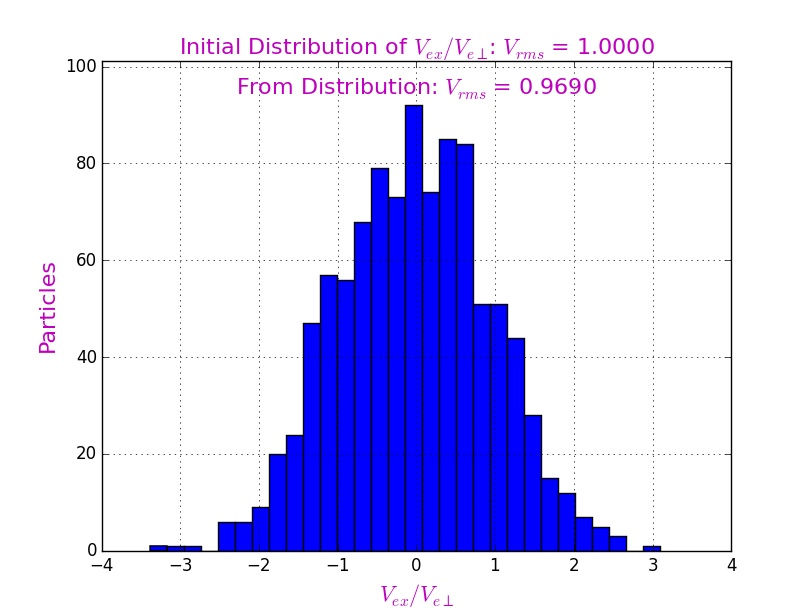
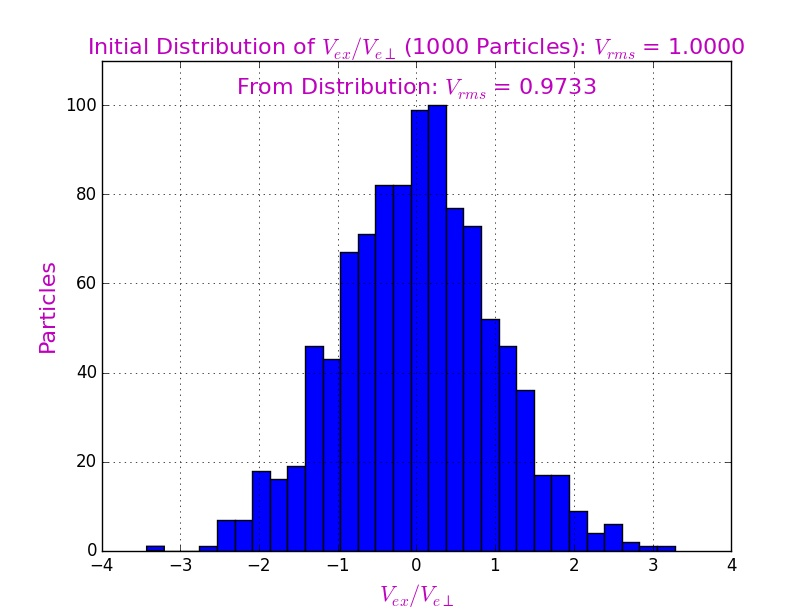
Update files at 07/27/2017

diff --git a/rsfriction/fricrionForce_YuE/scripts/frictionForce_LieOperatorsApproach.py b/rsfriction/fricrionForce_YuE/scripts/frictionForce_LieOperatorsApproach.py
@@ -58,14 +58,14 @@ Z_ion = qe*2.997e+9              # charge of ion (proton), CGSE units of the cha
 M_ion = mp*1.e+3                 # mass of ion (proton), g
 q_elec = qe*2.997e+9             # charge of electron, CGSE units of the charge
 m_elec = me*1.e+3                # mass of electron, g
-L_intrxn = 50.e-4                # length interaraction, cm 
-B_mag = 1000.                    # magnetic field, Gs
+tangAlpha=1.                     # to calculate length of interaraction
+B_mag = 2000.                    # magnetic field, Gs
 Temp_eTran = 0.5                 # transversal temperature of electrons, eV
 Temp_eLong = 2.e-4               # longitudinal temperature of electrons, eV
 numb_e = 1000                    # number of electrons
 numb_p = 50                      # number of protons
 
-a_eBeam = 0.5                    # cm
+a_eBeam = 0.1                    # cm
 n_eBeam = 1.e+9                  # cm^-3
 kinEnergy_eBeam=470.*eVtoErg     # erg
 
@@ -82,7 +82,7 @@ def omega_Larmor(mass,B_mag):
 #
 shiftV_e=np.sqrt(2.*kinEnergy_eBeam/m_elec)               # cm/sec
 #
-# The longitudinal average velocities of the electrons and ions are the same:
+# The longitudinal shift velocities of the electrons and ions are the same:
 # 
 kinEnergy_pBeam=kinEnergy_eBeam/m_elec*M_ion              # erg
 shiftV_p=np.sqrt(2.*kinEnergy_pBeam/M_ion)                # cm/sec
@@ -103,25 +103,28 @@ rmsV_eLong = np.sqrt(2.*Temp_eLong*eVtoErg/m_elec)        # cm/sec
 print 'rmsV_eTran = %e cm/sec, rmsV_eLong = %e cm/sec' % (rmsV_eTran,rmsV_eLong)
 
 ro_larm = rmsV_eTran/Omega_e                              # cm
-print 'ro_larm = %e cm' % ro_larm
+print '<ro_larm> = %e cm' % ro_larm
 
 omega_e=np.sqrt(4*pi*n_eBeam*q_elec**2/m_elec)            # rad/sec
 print 'omega_e = %e rad/sec' % omega_e
 
-z_elec=np.zeros((6,numb_e))          # 1D vector: x_e,px_e,y_e,py_e,z_e,pz_e for each electron
-z_ion=np.zeros((6,numb_p))           # 1D vector: x_i,px_i,y_i,py_i,z_i,pz_i for each proton
+z_elec=np.zeros((6,numb_e)) # z_elec(6,:) is a vector: x_e,px_e,y_e,py_e,z_e,pz_e for each electron
+z_ion=np.zeros((6,numb_p))  # z_ion(6,:)  is a vector: x_i,px_i,y_i,py_i,z_i,pz_i for each proton
 
 #
-# Initial uniform distribution of the electron's impact parameter:
+# Initial uniform distribution of the electron's impact parameter (1D array):
 #
 impctPar = np.random.uniform(high=a_eBeam,size=numb_e)    # cm
 
+avr_impctPar=1.e+4*impctPar.mean()
+
 # Verifying of distribution:
 plt.figure(10)
-plt.hist(impctPar,bins=30)
-plt.xlabel('Impact parameters, cm',color='m',fontsize=16)
+plt.hist(1.e+4*impctPar,bins=30)
+plt.xlabel('Impact parameters, $\mu$m',color='m',fontsize=16)
 plt.ylabel('Particles',color='m',fontsize=16)
-plt.title('Electron''s Initial Distribution',color='m',fontsize=16)
+plt.title(('Initial Impact Parameter (%d Particles): <>=%6.4f $\mu$m' % \
+           (numb_e,avr_impctPar)),color='m',fontsize=16)
 plt.grid(True)
 
 #
@@ -138,7 +141,7 @@ plt.figure(20)
 plt.plot(z_elec[Ix,:],z_elec[Iy,:],'.r',linewidth=2)
 plt.xlabel('$x_e$, cm',color='m',fontsize=16)
 plt.ylabel('$y_e$, cm',color='m',fontsize=16)
-plt.title('Electron''s Initial Distribution',color='m',fontsize=16)
+plt.title(('Electron''s Initial Distribution (%d Particles)' % numb_e),color='m',fontsize=16)
 plt.xlim([np.min(z_elec[Ix,:]),np.max(z_elec[Ix,:])])
 plt.ylim([np.min(z_elec[Iy,:]),np.max(z_elec[Iy,:])])
 plt.grid(True)
@@ -160,8 +163,8 @@ vel_hist=plt.hist(z_elec[Ipx,:],bins=30)
 plt.xlabel('$V_{ex} / V_{e\perp}$',color='m',fontsize=16)
 plt.ylabel('Particles',color='m',fontsize=16)
 plt.ylim([0,1.1*np.max(vel_hist[0])])
-plt.title(('Initial Distribution of $V_{ex} / V_{e\perp}$: $V_{rms}$ = %6.4f' % 1.), \
-          color='m',fontsize=16)
+plt.title(('Initial Distribution of $V_{ex} / V_{e\perp}$ (%d Particles): $V_{rms}$ = %6.4f' \
+           % (numb_e,1.)),color='m',fontsize=16)
 plt.text(0.,1.025*np.max(vel_hist[0]),('From Distribution: $V_{rms}$ = %6.4f' % stdVex), \
          color='m',fontsize=16,ha='center')	  
 plt.grid(True)
@@ -171,8 +174,8 @@ vel_hist=plt.hist(z_elec[Ipy,:],bins=30)
 plt.xlabel('$V_{ey} / V_{e\perp}$',color='m',fontsize=16)
 plt.ylabel('Particles',color='m',fontsize=16)
 plt.ylim([0,1.1*np.max(vel_hist[0])])
-plt.title(('Initial Distribution of $V_{ey} / V_{e\perp}$: $V_{rms}$ = %6.4f' % 1.), \
-          color='m',fontsize=16)
+plt.title(('Initial Distribution of $V_{ey} / V_{e\perp}$ (%d Particles): $V_{rms}$ = %6.4f' \
+           % (numb_e,1.)),color='m',fontsize=16)
 plt.text(0.,1.025*np.max(vel_hist[0]),('From Distribution: $V_{rms}$ = %6.4f' % stdVey), \
          color='m',fontsize=16,ha='center')	  
 plt.grid(True)
@@ -180,39 +183,115 @@ plt.grid(True)
 #
 # Initial gaussian distribution of the relative longitudinal electron's velocities 
 #
-relShiftV_e=shiftV_e/rmsV_eTran                                                 # dimensionless
-z_elec[5,:]=np.random.normal(loc=relShiftV_e,scale=1.0*velRatio,size=numb_e)    # vz_e/rmsV_eTran
+relShiftV_e=shiftV_e/rmsV_eLong                                                 # dimensionless
+z_elec[Ipz,:]=np.random.normal(loc=relShiftV_e,scale=1.,size=numb_e)    # vz_e/rmsV_eLong
 
 # Verifying of distribution:
 avrVez=z_elec[Ipz,:].mean()
 stdVez=z_elec[Ipz,:].std()
-print 'avrVez = %e (must be %e),stdVexz = %e (must be %e)' % (avrVez,relShiftV_e,stdVez,velRatio)
+print 'avrVez = %e (must be %e),stdVez = %e (must be %e)' % (avrVez,relShiftV_e,stdVez,1.)
 
 plt.figure(50)
-vel_hist=plt.hist(z_elec[Ipz,:],bins=30)
-plt.xlabel('$V_{ez} / V_{e\perp}$',color='m',fontsize=16)
+vel_hist=plt.hist(z_elec[Ipz,:]-relShiftV_e,bins=30)
+plt.xlabel('$V_{ez} / V_{e||}$',color='m',fontsize=16)
 plt.ylabel('Particles',color='m',fontsize=16)
 plt.ylim([0,1.1*np.max(vel_hist[0])])
-plt.title(('Initial Distribution of $V_{ez} / V_{e\perp}$: <V> = %6.4f, $V_{rms}$ = %6.4f' \
-           % (relShiftV_e,velRatio)), color='m',fontsize=16)
-plt.text(relShiftV_e,1.025*np.max(vel_hist[0]), \
-         ('From Distribution: <V>=%6.4f, $V_{rms}$ = %6.4f' % (avrVez,stdVez)), \
-         color='m',fontsize=16,ha='center')	  
+plt.title(('Initial Distribution of $V_{ez} / V_{e||}$ (%d Particles): $V_{rms}$ = %6.4f'  % \
+           (numb_e,1.)),color='m',fontsize=16)
+plt.text(0,1.025*np.max(vel_hist[0]),('From Distribution: $V_{rms}$ = %6.4f' % stdVez), \
+	 color='m',fontsize=16,ha='center')	  
 plt.grid(True)
-
-#
-# Returning to momenta:
-#
-z_elec[Ipx,:]=m_elec*rmsV_eTran*z_elec[1,:]                       # g*cm/sec
-z_elec[Ipy,:]=m_elec*rmsV_eTran*z_elec[3,:]                       # g*cm/sec
-z_elec[Ipz,:]=m_elec*rmsV_eTran*z_elec[5,:]                       # g*cm/sec
 
 #
 # 1D arrays with numb_e entries:
 #
-timeFlight=L_intrxn/(z_elec[Ipz,:]/m_elec)     # time of flight for each electron, sec
-turnsNumber=timeFlight/T_larm                  # number of Larmour turns for each electron
-stepsNumber=timeFlight/timeStep                # number of steps for each electron
+rhoLarm=np.zeros(numb_e)
+L_intrcn=np.zeros(numb_e)
+tol=np.zeros(numb_e)
+trnsNmbr=np.zeros(numb_e)
+stpsNmbr=np.zeros(numb_e)
+for ne in range(numb_e):
+   rhoLarm[ne]=1.e+4*rmsV_eTran*np.sqrt(z_elec[Ipx,ne]**2+z_elec[Ipy,ne]**2)/Omega_e     # mkm
+   L_intrcn[ne]=2.*impctPar[ne]*tangAlpha                               # length of interaraction, cm
+   tol[ne]=L_intrcn[ne]/np.abs((z_elec[Ipz,ne]*rmsV_eLong-shiftV_e))    # time of flight for, sec
+   trnsNmbr[ne]=int(tol[ne]/T_larm)                                # number of Larmour turns
+   stpsNmbr[ne]=int(tol[ne]/timeStep)                              # total number of steps
+# for ne in range(numb_e):
+#    print 'trnsNmbr: %d' % trnsNmbr[ne]
+
+rms_rhoLarm=rhoLarm.std()
+avr_Lintrcn=1.e+4*L_intrcn.mean()
+minTrns=np.min(trnsNmbr)
+maxTrns=np.max(trnsNmbr)
+avrTrns=trnsNmbr.mean()
+rmsTrns=trnsNmbr.std()
+print 'minTrnsNmbr=%d, maxTrnsNmbr=%d, avrTrns=%d, rmsTrns=%d)' % (minTrns,maxTrns,avrTrns,rmsTrns)
+
+plt.figure(60)
+rhoL_hist=plt.hist(rhoLarm,bins=30)
+plt.xlabel('$R_L$, $\mu$m',color='m',fontsize=16)
+plt.ylabel('Particles',color='m',fontsize=16)
+plt.ylim([0,1.025*np.max(rhoL_hist[0])])
+plt.title(('Larmour Radius $R_L$ (%d Particles): rms = %6.3f $\mu$m' % (numb_e,rms_rhoLarm)), \
+          color='m',fontsize=16)
+plt.grid(True)
+
+plt.figure(70)
+intrcnL_hist=plt.hist(1.e+4*L_intrcn,bins=30)
+plt.xlabel('$L_{interection}$, $\mu$m',color='m',fontsize=16)
+plt.ylabel('Particles',color='m',fontsize=16)
+plt.ylim([0,1.025*np.max(intrcnL_hist[0])])
+plt.title(('Length of Interactions $L_{interaction}$ (%d Particles): <> = %6.3f $\mu$m' % \
+           (numb_e,avr_Lintrcn)),color='m',fontsize=16)
+plt.grid(True)
+
+#
+# Histogramm for number of turns larger then 100 and less than upperFactor*avrTrns
+#
+upperFactor=2.
+upperTurns=upperFactor*avrTrns
+trnsNmbrSpec=np.zeros(numb_e)
+indxTrns=np.zeros(numb_e)
+indxSkppd=np.zeros(numb_e)
+neSlctd=-1
+neSkppd=-1
+for ne in range(numb_e):
+   if 100 < trnsNmbr[ne] < upperTurns:
+      neSlctd +=1
+      trnsNmbrSpec[neSlctd]=trnsNmbr[ne]
+      indxTrns[neSlctd]=ne
+   else:
+      neSkppd +=1
+      indxSkppd[neSkppd]=ne
+
+maxTrnsSpec=np.max(trnsNmbrSpec[1:neSlctd])
+minTrnsSpec=np.min(trnsNmbrSpec[1:neSlctd])
+print 'neSlctd=%d, maxTrnsSpec=%d, minTrnsSpec=%d: ' % (neSlctd,maxTrnsSpec,minTrnsSpec)
+# print 'trnsNmbrSpec: ' , trnsNmbrSpec[1:neSlctd]
+# print 'indxTrns: ' , indxTrns[1:neSlctd]
+# print 'neSkppd, indxSkppd: ' , (neSkppd,indxSkppd[1:neSkppd])
+
+plt.figure(80)
+trns_hist=plt.hist(trnsNmbrSpec[1:neSlctd],bins=50)
+plt.xlabel('Turns',color='m',fontsize=16)
+plt.ylabel('Particles',color='m',fontsize=16)
+plt.ylim([0,1.1*np.max(trns_hist[0])])
+plt.xlim([50,2.*avrTrns])
+plt.title(('Larmour Turns During Interaction (%d Particles): <>=%d' % (neSlctd,avrTrns)), \
+          color='m',fontsize=16)
+plt.text(0,1.025*np.max(trns_hist[0]), \
+         ('  Selected Particles: 100 < Turns < 2$\cdot$Turns$_{avr}$ = %d' % upperTurns), \
+	 color='m',fontsize=16,ha='left')	  
+plt.grid(True)
+
+# print 'sum(trns_hist): ',np.sum(trns_hist[0])
+
+#
+# Returning to momenta:
+#
+z_elec[Ipx,:]=m_elec*rmsV_eTran*z_elec[Ipx,:]                       # g*cm/sec
+z_elec[Ipy,:]=m_elec*rmsV_eTran*z_elec[Ipy,:]                       # g*cm/sec
+z_elec[Ipz,:]=m_elec*rmsV_eLong*(z_elec[Ipz,:]-relShiftV_e)         # g*cm/sec
 
 #
 # Convertion from electron's "coordinates" to guiding-center coordinates:
@@ -253,8 +332,9 @@ z_ion[Ipz,:]=M_ion*shiftV_p           # all ions have the same momenta, g*cm/sec
 #
 # Matrix to dragg particle with mass 'm_part' through the drift during time interval 'deltaT':
 #
-def driftMatrix(mpart,deltaT):
-    driftMtrx=np.identity(6)
+def driftMatrix(m_part,deltaT,driftMtrx=[]):
+    import numpy as np   # Next np.identity does not work without that! Why?!
+    drftMtrx=np.identity(6)
     for i in (Ix,Iy,Iz):
        drftMtrx[i, i + 1]=deltaT/m_part                   # sec/g
     return drftMtrx
@@ -263,15 +343,16 @@ def driftMatrix(mpart,deltaT):
 # Matrix to dragg electron through the solenoid with field 'B_mag' during time interval 'deltaT':
 #
 def solenoid_eMatrix(B_mag,deltaT):
+    import numpy as np   # Next np.identity does not work without that! Why?!
+    slndMtrx=np.identity(6)
     Omega_e=omega_Larmor(m_elec,B_mag)                    # rad/sec 
     mOmega= m_elec*Omega_e                                # g/sec
     phi=Omega_e*deltaT                                    # phase, rad
-    cosPhi=math.cos(phi)                                  
-    sinPhi=math.sin(phi)
-    cosPhi_1=2.*math.sin(phi/2.)**2                       # 1-cos(a)=2sin^2(a/2)
-    slndMtrx=np.identity(6)
-    slndMtrx[Iy, Iy ]= cosPhi
-    slndMtrx[Ipy,Ipy]= cosPhi
+    cosPhi=math.cos(phi)                                  # dimensionless                                  
+    sinPhi=math.sin(phi)                                  # dimensionless
+    cosPhi_1=2.*math.sin(phi/2.)**2                       # dimensionless                      
+    slndMtrx[Iy, Iy ]= cosPhi                             # dimensionless
+    slndMtrx[Ipy,Ipy]= cosPhi                             # dimensionless
     slndMtrx[Iy, Ipy]= sinPhi/mOmega                      # sec/g
     slndMtrx[Ipy,Iy ]=-mOmega*sinPhi                      # g/sec
     slndMtrx[Iz, Ipz]= deltaT/m_elec                      # sec/g
@@ -284,36 +365,79 @@ def solenoid_eMatrix(B_mag,deltaT):
 
 #
 # Dragg electron and ion through the "collision" during time interval 'deltaT':
-# During collision momenta of the particles sre changed by value deltaV_i/deltaR^3,
-# where deltaV_i=Vion_i-Velec_i (i=x,y,z) and deltaR is distance between particles
+# During collision momenta of the particles sre changed by value deltaV_int/deltaR^3,
+# where deltaV_int=Vion_i-Velec_i (i=x,y,z) and deltaR is a distance between particles
 #
-def pullCollision(deltaT,z_i,z_e):
+def draggCollision(deltaT,z_i,z_e):
     g=deltaT*Z_ion*q_elec**2                              # g*cm^3/sec
     dz=z_i-z_e
-    denom=(dz[Ix,:]**2+dz[Iy,:]**2+dz[Iz,:]**2)**(3/2)    # cm^3
+    denom=(dz[Ix]**2+dz[Iy]**2+dz[Iz]**2)**(3/2)    # cm^3
     zf_i=z_i.copy()
     zf_e=z_e.copy()
     for ip in (Ipx,Ipy,Ipz):
-       zf_i[ip,:]=z_i[ip,:]-g*dz[ip-1]/denom             # g*cm/sec
-       zf_e[ip,:]=z_e[ip,:]+g*dz[ip-1]/denom             # g*cm/sec
+       zf_i[ip]=z_i[ip]-g*dz[ip-1]/denom             # g*cm/sec
+       zf_e[ip]=z_e[ip]+g*dz[ip-1]/denom             # g*cm/sec
     return zf_i,zf_e
 
-plt.show()   
+# plt.show()   
 
 #
-# Dragging all electrons near each protons:
+# Dragging all selected electrons near each protons:
 #
+
 zInit_ion=np.zeros(6)
 zInit_elec=np.zeros(6)
-for np in range(1):        # range(numb_p) 
+#
+# To draw trajectory of electron:
+#
+zFin_ion=np.zeros((6,201))
+zFin_elec=np.zeros((6,201))
+for np in range(1):                                    # range(numb_p) 
    zInit_ion[:]=z_ion[:,np]
    print 'Dimension of zInit_ion=',zInit_ion.shape
-   for ne in range(1):     # range(numb_e)  
-      zInit_elec[:]=z_elec[:,ne]
-      tol=L_intrxn/(zInit_elec[Ipz]/m_elec)               # time of flight for electron, sec
-      trnsNmbr=int(tol/T_larm)                        # number of Larmour turns for electron
-      stpsNmbr=int(tol/timeStep)                      # number of time steps for dragging
-      print 'timeStep=%e, tol=%e,trnsNmbr=%d, stpsNmbr=%d' % (timeStep,tol,trnsNmbr,stpsNmbr) 
+   for ne in range(1):                                 # range(neSlctd)
+      neCrnt=indxTrns[ne]  
+      zInit_elec[:]=z_elec[:,neCrnt]
+#       rhoCrnt=rhoLarm[neCrnt]                                 # mkm
+#       lenghtInt=L_intrcn[neCrnt]                              # length of interaraction, cm
+      tolCrnt=tol[neCrnt]                                     # time of flight for, sec
+      turnsCrnt=trnsNmbr[neCrnt]                              # number of Larmour turns
+      stepsCrnt=stpsNmbr[neCrnt]                              # total number of steps
+      print 'For %d: T_larm=%e, timeStep=%e, tol=%e,trnsNmbr=%d, stpsNmbr=%d' % \
+            (neCrnt,T_larm,timeStep,tolCrnt,turnsCrnt,stepsCrnt) 
+      z_ion=zInit_ion.copy()
+      z_elec=zInit_elec.copy()
+      zFin_ion[:,0]=z_ion.copy()
+      zFin_elec[:,0]=z_elec.copy()
+      matr_ion=driftMatrix(M_ion,.5*timeStep)
+      matr_elec=solenoid_eMatrix(B_mag,.5*timeStep)
+      for step in range(200):                           # range(stepsCrnt)
+         z_ion=matr_ion.dot(z_ion)
+	 z_elec=matr_elec.dot(z_elec)
+         z_ion,z_elec=draggCollision(timeStep,z_ion,z_elec)
+         z_ion=matr_ion.dot(z_ion)
+	 z_elec=matr_elec.dot(z_elec)
+         zFin_ion[:,step+1]=z_ion.copy()
+         zFin_elec[:,step+1]=z_elec.copy()
+
+print 'Dimension of zFin_elec, zFin_ion=',(zFin_elec.shape,zFin_ion.shape)
+
+fig100=plt.figure(100)
+ax100=fig100.gca(projection='3d')
+ax100.plot(1.e+4*zFin_elec[Ix,:],1.e+4*zFin_elec[Iy,:],1.e+4*zFin_elec[Iz,:],'-r',linewidth=3)
+plt.hold(True)
+plt.title(('Electron: Impact Parameter=%5.3f cm, Larmour=%5.3f $\mu$m' \
+           % (rhoLarm[indxTrns[0]],impctPar[indxTrns[0]])), color='m',fontsize=16)
+plt.xlabel('x, $\mu m$',color='m',fontsize=16)
+plt.ylabel('y, $\mu m$',color='m',fontsize=16)
+# plt.zlabel('z, $\mu m$',color='m',fontsize=16)
+# ax100.set_zlabel('z, $\mu m$',color='m',fontsize=20)
+# ax100.text(-2.5,100,-442.5,'Larmor Circles',color='r',fontsize=16)
+# ax100.text(-3.35,100,-483,'Larmor Center',color='b',fontsize=16)
+# ax100.zaxis.label.set_color('magenta')
+# ax100.zaxis.label.set_fontsize(16)
    
+plt.show()   
+
 sys.exit()   
 
